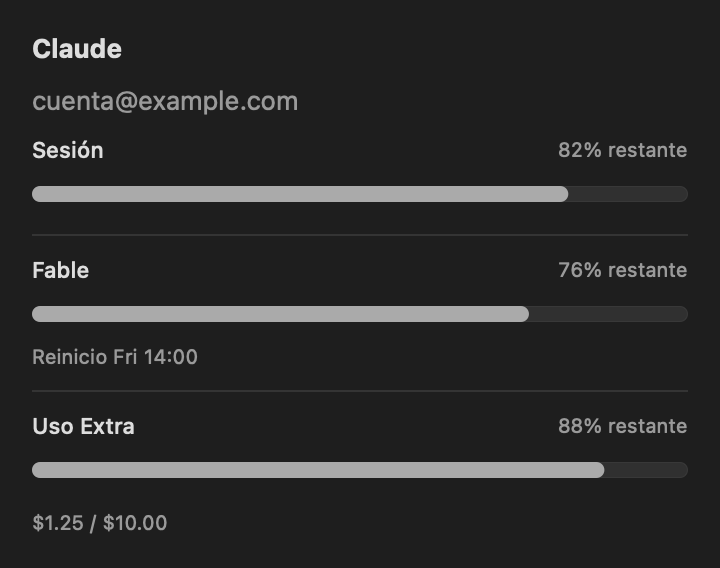
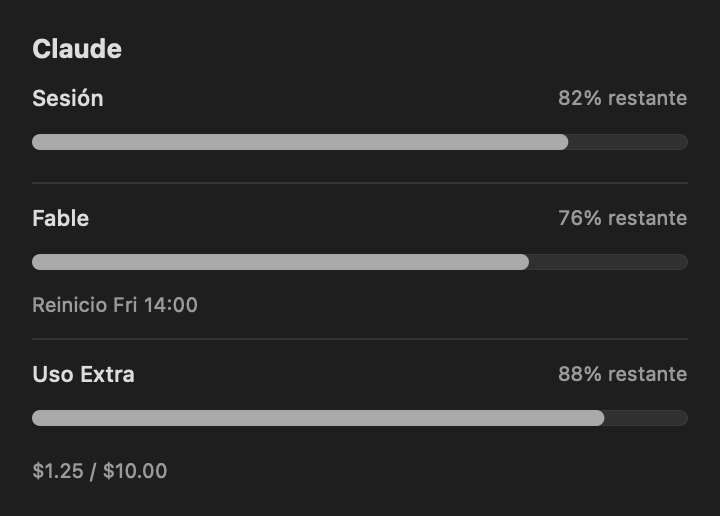
Simplify the custom Claude Desktop menu (#8)

diff --git a/Sources/CodexBar/StatusItemController+DesktopMenuSections.swift b/Sources/CodexBar/StatusItemController+DesktopMenuSections.swift
@@ -1,0 +1,30 @@
+import AppKit
+import CodexBarCore
+
+extension StatusItemController {
+    func addDesktopAwareUsageHistory(to menu: NSMenu, context: MenuCardContext) {
+        // Provider-specific by design: Claude Desktop bars replace the independently sourced CLI plan history.
+        if context.currentProvider == .claude,
+           self.settings.userDefaults.bool(forKey: "customDesktopMenuBarEnabled") { return }
+        self.addUsageHistoryClusterIfNeeded(to: menu, context: context)
+    }
+
+    func desktopMenuSections(
+        _ sections: [MenuDescriptor.Section], provider: UsageProvider?) -> [MenuDescriptor.Section]
+    {
+        // Provider-specific by design: the custom Claude Desktop menu keeps only usage, account switching and refresh.
+        let minimal = provider == .claude && self.settings.userDefaults.bool(forKey: "customDesktopMenuBarEnabled")
+        return Self.desktopMenuSections(sections, minimal: minimal)
+    }
+
+    static func desktopMenuSections(
+        _ sections: [MenuDescriptor.Section], minimal: Bool) -> [MenuDescriptor.Section]
+    {
+        guard minimal else { return sections.filter { $0.entries.contains(where: \.isActionable) } }
+        let refresh = sections.flatMap(\.entries).filter { entry in
+            if case .action(_, .refresh) = entry { return true }
+            return false
+        }
+        return refresh.isEmpty ? [] : [.init(entries: refresh)]
+    }
+}

diff --git a/Tests/CodexBarTests/ClaudeDesktopUsageTests.swift b/Tests/CodexBarTests/ClaudeDesktopUsageTests.swift
@@ -9,6 +9,23 @@ struct ClaudeDesktopUsageTests {
     private let identity = ClaudeDesktopProfileIdentity.Identity(accountID: "account-a", email: "a@example.com")
 
     @Test
+    func `minimal desktop menu keeps refresh and removes links and footer actions`() {
+        let sections: [MenuDescriptor.Section] = [.init(entries: [
+            .text("Status", .secondary), .submenu("Plan Usage", nil, []),
+            .action("Terminal", .openTerminal(command: "claude")), .action("Dashboard", .dashboard),
+            .action("Refresh", .refresh), .action("Settings", .settings),
+            .action("About", .about), .action("Quit", .quit),
+        ])]
+        let minimal = StatusItemController.desktopMenuSections(sections, minimal: true)
+        #expect(minimal.count == 1)
+        #expect(minimal.first?.entries.count == 1)
+        if case .action(_, .refresh) = minimal[0].entries[0] {} else {
+            Issue.record("Only refresh should remain")
+        }
+        #expect(StatusItemController.desktopMenuSections(sections, minimal: false).first?.entries.count == 8)
+    }
+
+    @Test
     func `desktop visual limits preserve scoped weekly models resets and paid usage units`() throws {
         let data = Data("""
         {"limits":[{"kind":"session","percent":0},

diff --git a/Sources/CodexBar/StatusItemController+Menu.swift b/Sources/CodexBar/StatusItemController+Menu.swift
@@ -853,7 +853,7 @@ extension StatusItemController {
                 currentProvider: context.currentProvider,
                 context: context.openAIContext,
                 addedOpenAIWebItems: addedOpenAIWebItems)
-            self.addUsageHistoryClusterIfNeeded(to: menu, context: context)
+            self.addDesktopAwareUsageHistory(to: menu, context: context)
         }
         self.addUserPluginMenuCards(to: menu, width: context.menuWidth)
     }
@@ -865,7 +865,7 @@ extension StatusItemController {
         provider: UsageProvider?,
         captureMenu: NSMenu? = nil)
     {
-        let actionableSections = sections.filter { section in section.entries.contains(where: \ .isActionable) }
+        let actionableSections = self.desktopMenuSections(sections, provider: provider)
         for (index, section) in actionableSections.enumerated() {
             for entry in section.entries {
                 switch entry {

diff --git a/Sources/CodexBar/ClaudeDesktopUsageCard.swift b/Sources/CodexBar/ClaudeDesktopUsageCard.swift
@@ -63,9 +63,6 @@ struct ClaudeDesktopUsageCard: View {
     var body: some View {
         VStack(alignment: .leading, spacing: 10) {
             Text("Claude").font(.headline)
-            if let email = self.state.email {
-                Text(email).foregroundStyle(.secondary).textSelection(.enabled)
-            }
             if let usage = self.state.usage {
                 ClaudeDesktopLimitRow(
                     title: "Sesión",

diff --git a/docs/claude-desktop-accounts.md b/docs/claude-desktop-accounts.md
@@ -52,3 +52,5 @@ installed app's bundle identifier and restarts CodexBar. The version stays at 0.
 disables the official update feed so automatic updates cannot replace the custom feature.
 
 The Desktop card shows compact bars for the current session and every weekly limit returned by Claude, including model-specific limits. Each row shows its used/remaining percentage and reset time. Extra paid usage appears only when enabled and available, as spending against its monthly cap; this is not a prepaid credit balance. These values always come from the active Desktop account.
+
+The custom Claude menu keeps the usage bars, the account selector and Refresh. The card omits its duplicate email; the selector remains the place to see and switch the active account. Standard links and footer actions remain available in the other provider menus.
